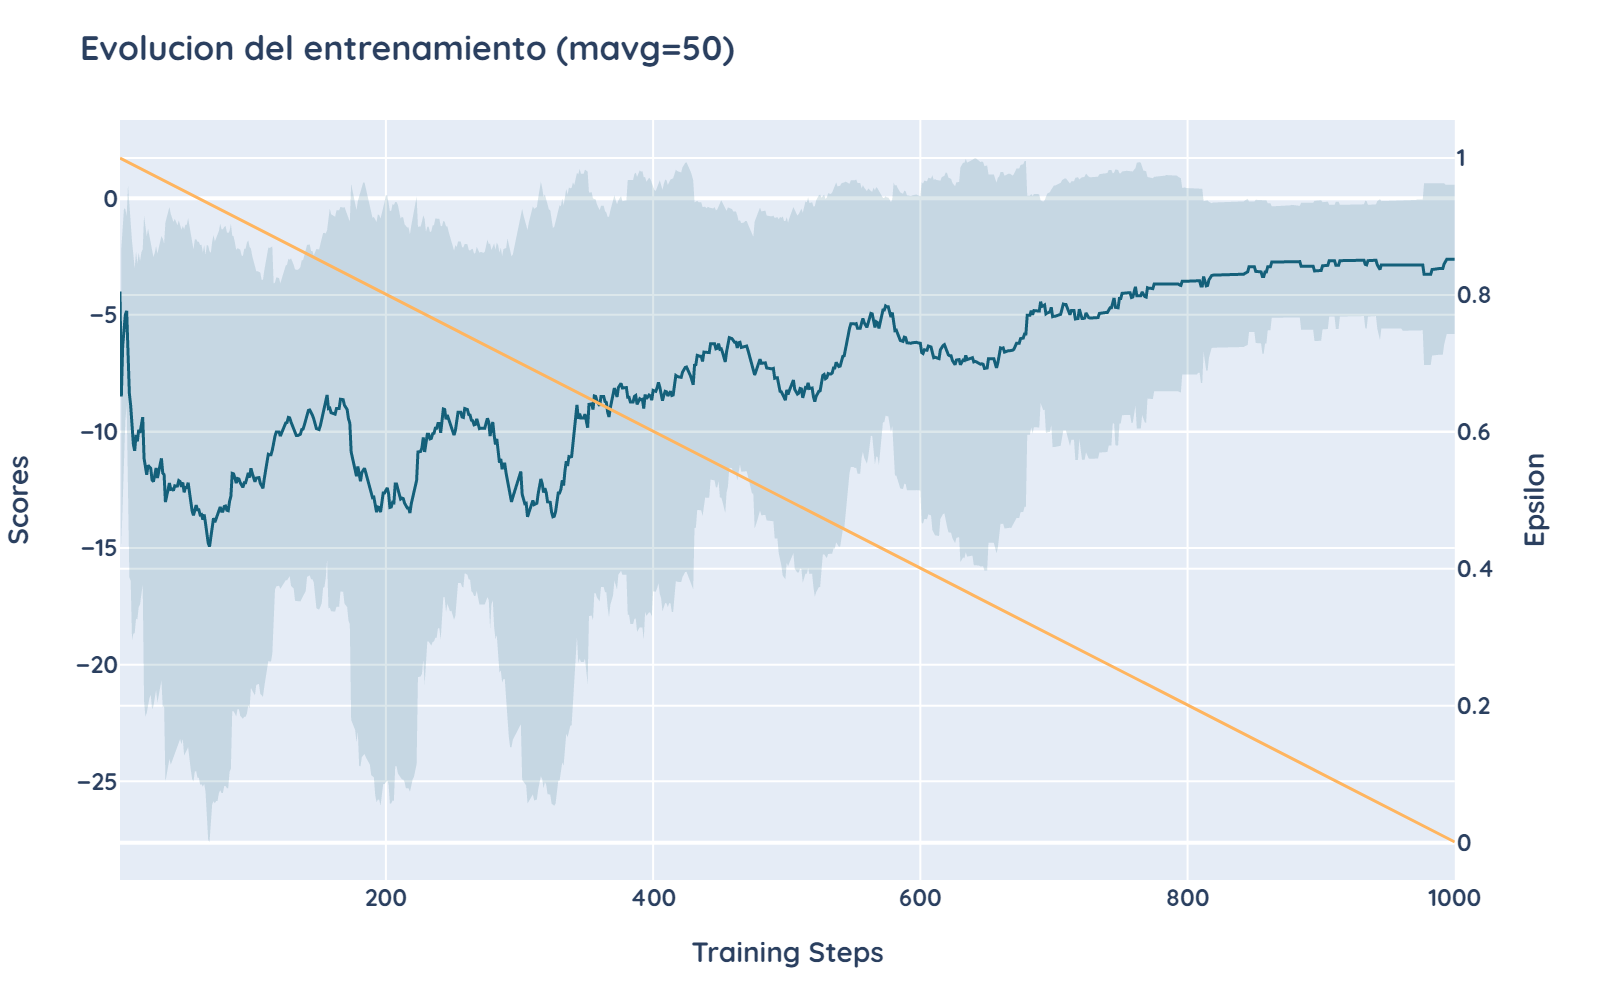
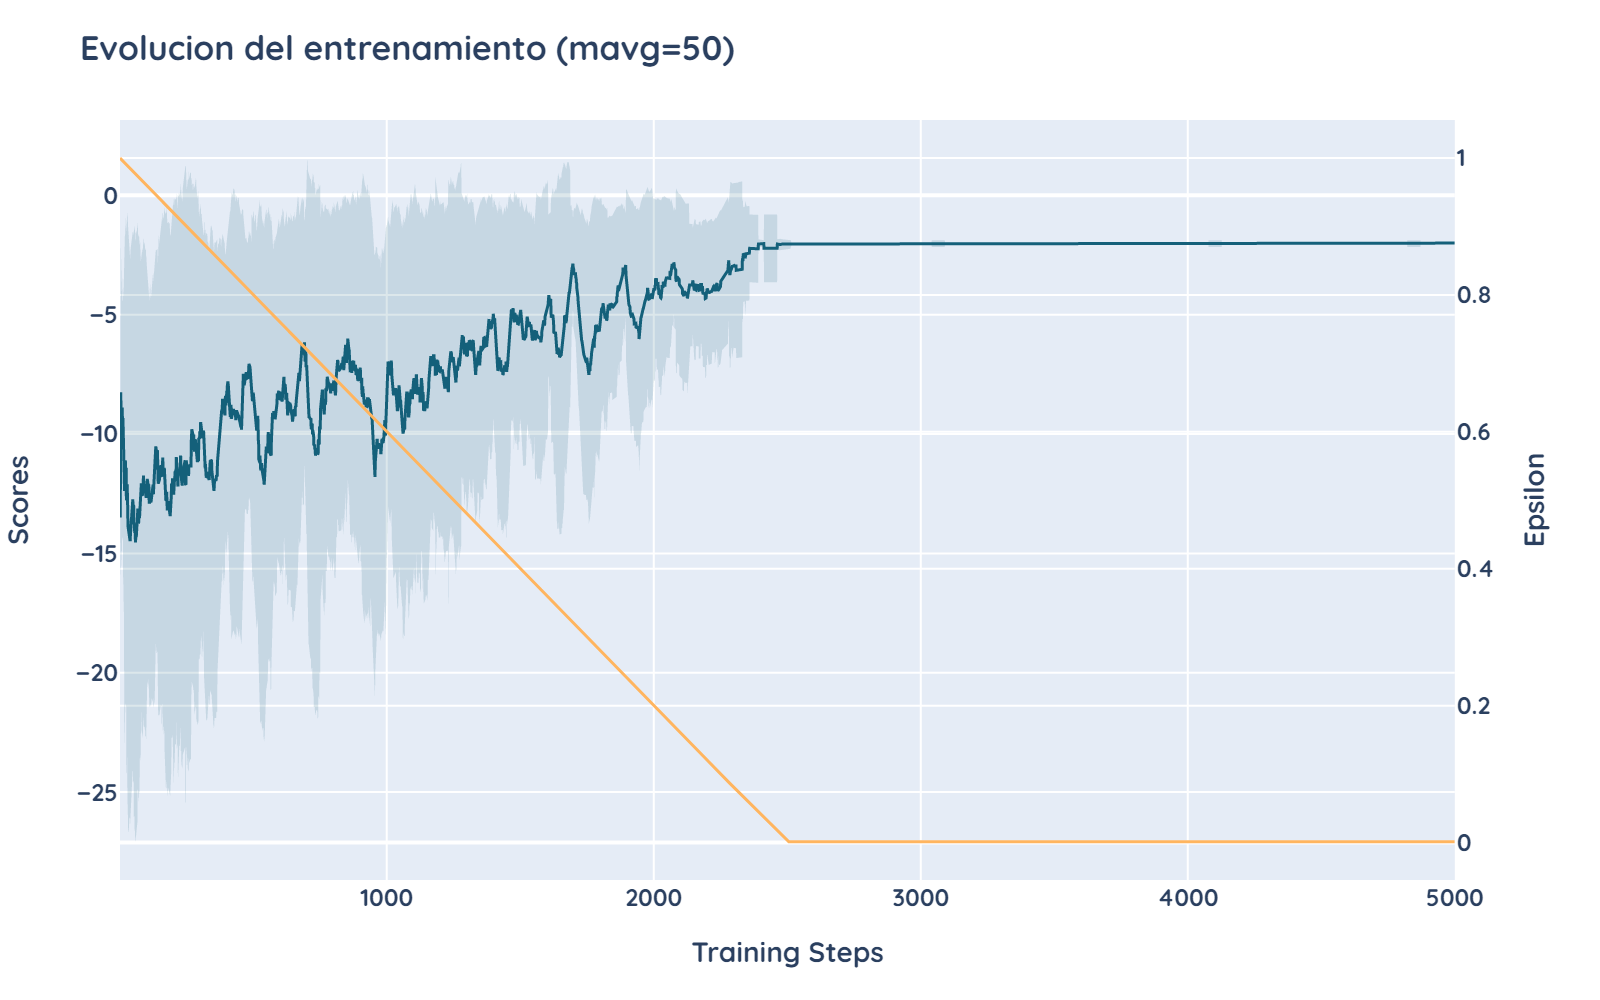
Validaciones de parametros iniciales

diff --git a/modelo_rl/modelo_rl/examples/modulo.py b/modelo_rl/modelo_rl/examples/modulo.py
@@ -4,20 +4,20 @@ import os
 
 path = os.path.dirname(os.path.abspath(__file__))
 
-ejemplo2 = np.array([{'id': 'uio1-port1', 'bw': 199, 'congestionado': True, 'region': 'uio', 'capacidad': 200},
-                     {'id': 'uio1-port2', 'bw': 99, 'congestionado': True, 'region': 'uio', 'capacidad': 100},
-                     {'id': 'uio1-port3', 'bw': 49, 'congestionado': True, 'region': 'uio', 'capacidad': 50},
-                     {'id': 'uio1-port4', 'bw': 49, 'congestionado': True, 'region': 'uio', 'capacidad': 50},
-                     {'id': 'uio1-port5', 'bw': 49, 'congestionado': True, 'region': 'uio', 'capacidad': 50},
-                     {'id': 'uio1-port6', 'bw': 59, 'congestionado': True, 'region': 'uio', 'capacidad': 60},
-                     {'id': 'uio2-port1', 'bw': 199, 'congestionado': True, 'region': 'uio', 'capacidad': 200},
-                     {'id': 'uio2-port2', 'bw': 199, 'congestionado': True, 'region': 'uio', 'capacidad': 200},
+ejemplo2 = np.array([{'id': 'uio1-port1', 'bw': 196, 'congestionado': True, 'region': 'uio', 'capacidad': 200},
+                     {'id': 'uio1-port2', 'bw': 29, 'congestionado': False, 'region': 'uio', 'capacidad': 100},
+                     {'id': 'uio1-port3', 'bw': 19, 'congestionado': False, 'region': 'uio', 'capacidad': 50},
+                     {'id': 'uio1-port4', 'bw': 19, 'congestionado': False, 'region': 'uio', 'capacidad': 50},
+                     {'id': 'uio1-port5', 'bw': 19, 'congestionado': False, 'region': 'uio', 'capacidad': 50},
+                     {'id': 'uio1-port6', 'bw': 29, 'congestionado': False, 'region': 'uio', 'capacidad': 60},
+                     {'id': 'uio2-port1', 'bw': 119, 'congestionado': False, 'region': 'uio', 'capacidad': 200},
+                     {'id': 'uio2-port2', 'bw': 129, 'congestionado': False, 'region': 'uio', 'capacidad': 200},
                      {'id': 'gye1-port1', 'bw': 199, 'congestionado': True, 'region': 'gye', 'capacidad': 200},
                      {'id': 'gye1-port2', 'bw': 49, 'congestionado': True, 'region': 'gye', 'capacidad': 50},
-                     {'id': 'gye1-port3', 'bw': 99, 'congestionado': True, 'region': 'gye', 'capacidad': 100},
-                     {'id': 'gye1-port4', 'bw': 199, 'congestionado': True, 'region': 'gye', 'capacidad': 200},
-                     {'id': 'gye2-port1', 'bw': 199, 'congestionado': True, 'region': 'gye', 'capacidad': 200},
-                     {'id': 'gye3-port1', 'bw': 99, 'congestionado': True, 'region': 'gye', 'capacidad': 100}
+                     {'id': 'gye1-port3', 'bw': 29, 'congestionado': False, 'region': 'gye', 'capacidad': 100},
+                     {'id': 'gye1-port4', 'bw': 19, 'congestionado': False, 'region': 'gye', 'capacidad': 200},
+                     {'id': 'gye2-port1', 'bw': 19, 'congestionado': False, 'region': 'gye', 'capacidad': 200},
+                     {'id': 'gye3-port1', 'bw': 19, 'congestionado': False, 'region': 'gye', 'capacidad': 100}
                      ])
-acciones, _, _, _ = modelo_rl.solve_congestion(ejemplo2, path, log_it=False, epoch=5000)
+acciones, _, _, _, _ = modelo_rl.solve_congestion(ejemplo2, path, log_it=False, epoch=5000)
 print(acciones)

diff --git a/modelo_rl/modelo_rl/q_learn_environment.py b/modelo_rl/modelo_rl/q_learn_environment.py
@@ -156,7 +156,7 @@ class QNEnv(object):
         # states = []
         # for i in range(len(self.links)):
         #     states.append(i)
-        return np.arange(1, len(self.links)+1).tolist()
+        return np.arange(0, len(self.links)+1).tolist()
 
     def get_current_state(self):
         state = 0
